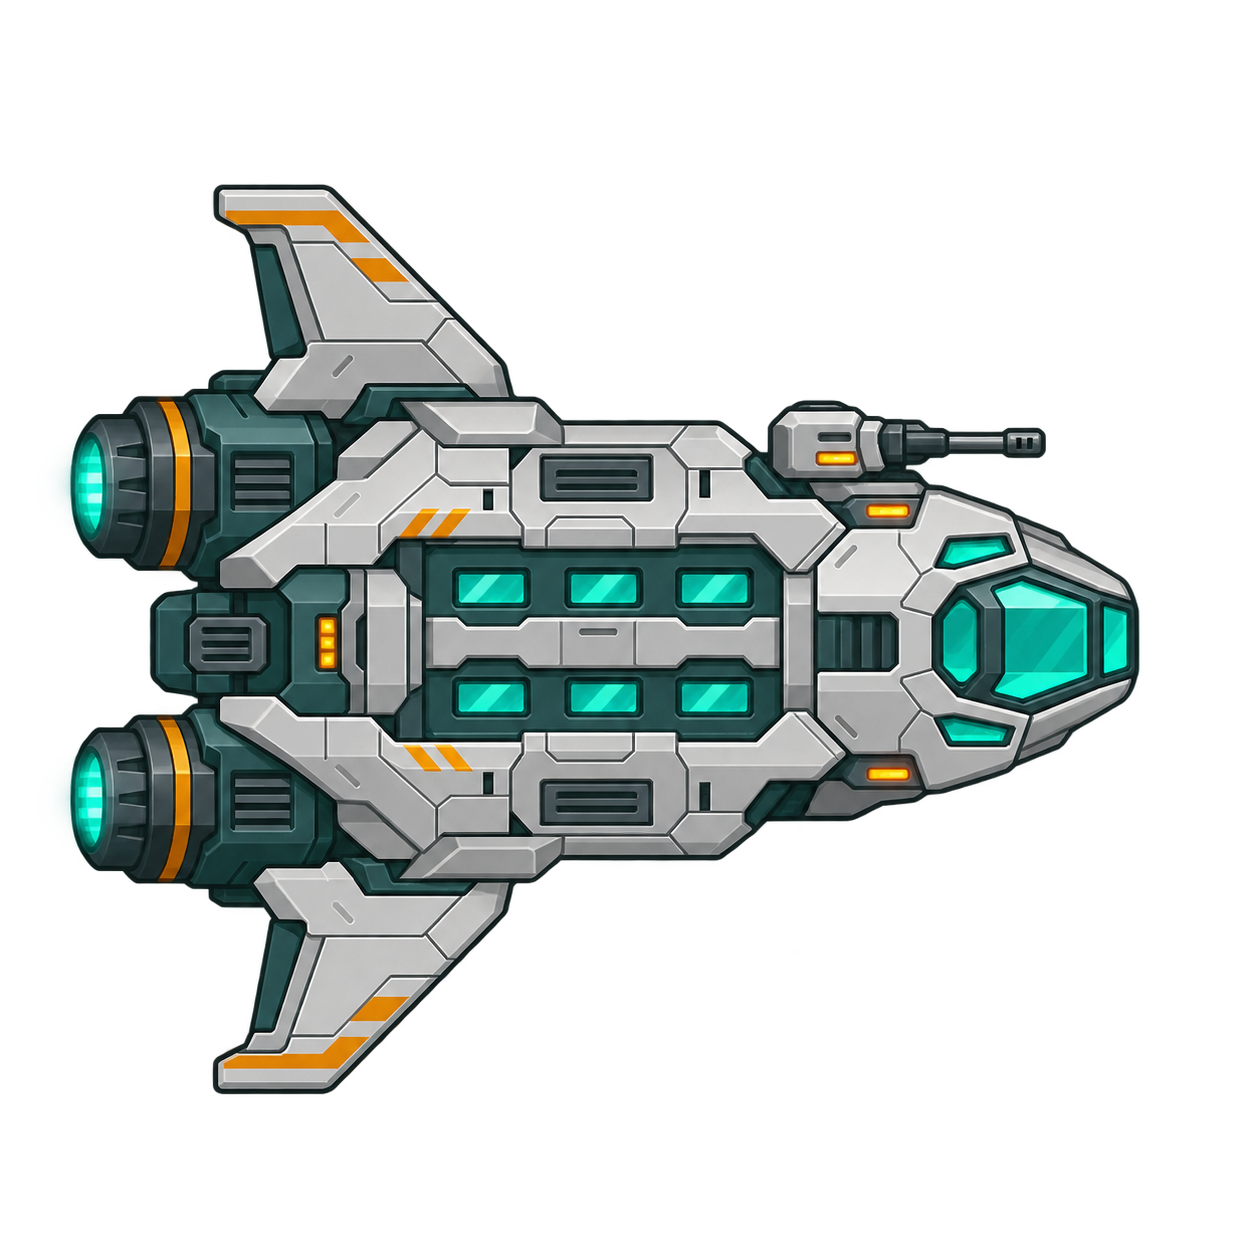
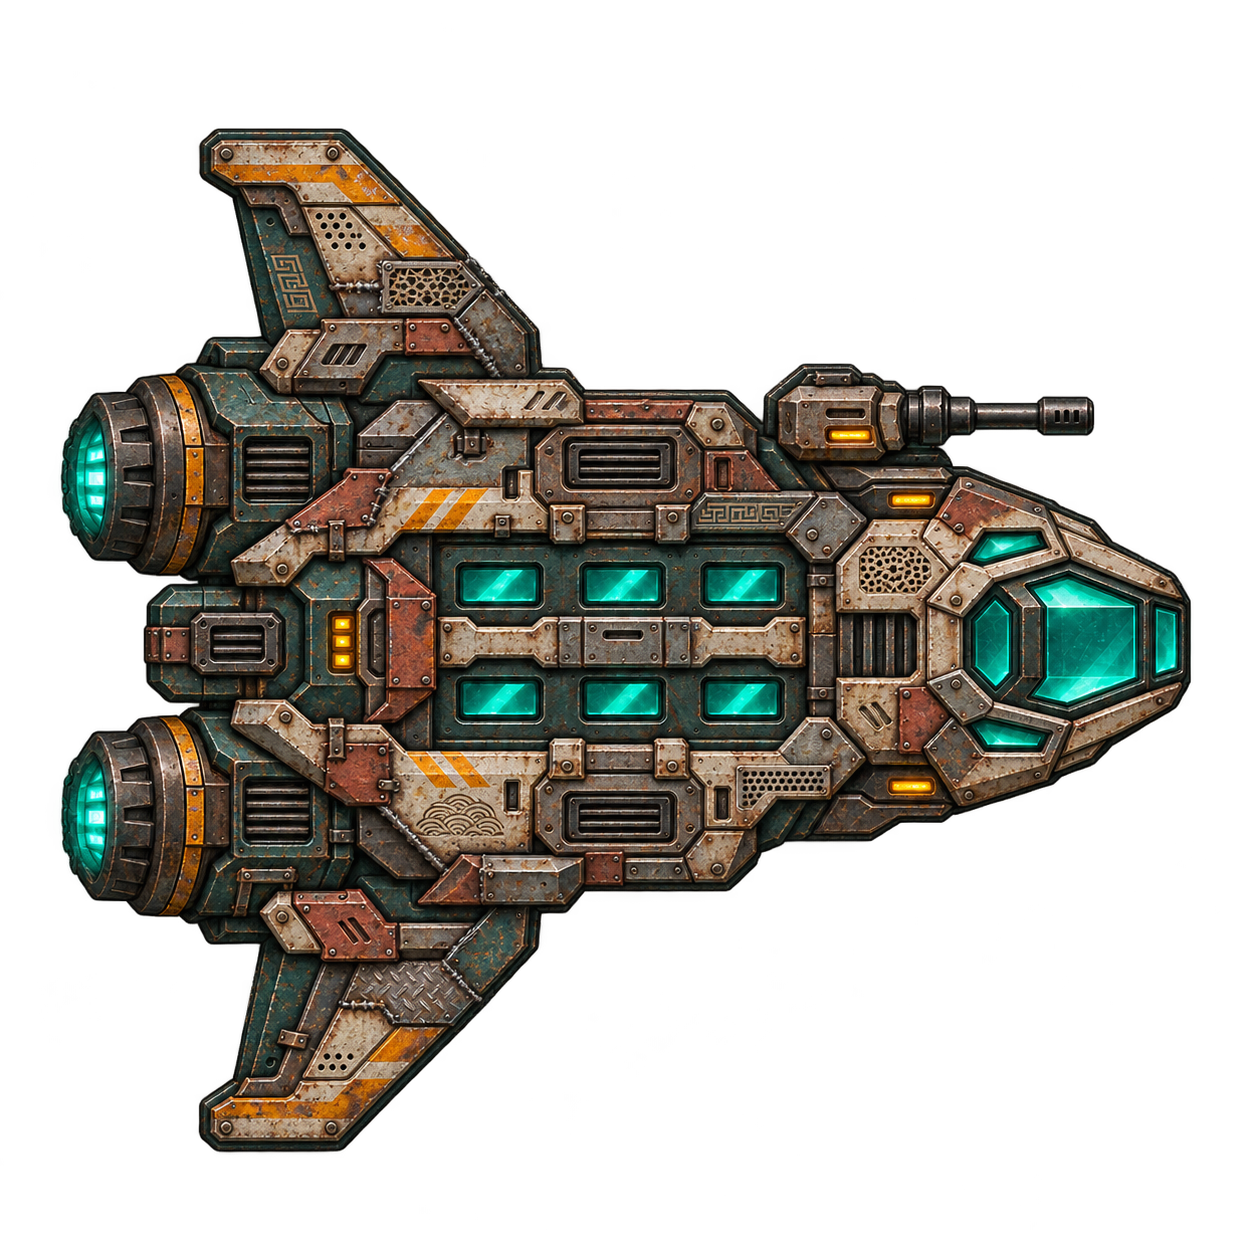
Establish single fleet visual profile and Raptor art

diff --git a/tests/boarding/unit/boarding-ship-picture.test.ts b/tests/boarding/unit/boarding-ship-picture.test.ts
@@ -43,6 +43,28 @@ describe('hogupplost-skeppsbild-i-bordning', () => {
   );
 });
 
+describe('raptor-single-fleet-grafik', () => {
+  it('uses transparent, matching-framed Raptor artwork for map and boarding', () => {
+    const mapUrl = SHIP_SPRITES.Raptor;
+    const boardingUrl = SHIP_BOARDING_IMAGES.Raptor;
+    expect(mapUrl).not.toBe(boardingUrl);
+    const mapSize = webpSize(mapUrl);
+    const boardingSize = webpSize(boardingUrl);
+    expect(boardingSize[0]).toBeGreaterThan(mapSize[0] * 2);
+    expect(boardingSize[0] / boardingSize[1]).toBeCloseTo(
+      mapSize[0] / mapSize[1],
+      3,
+    );
+    for (const url of [mapUrl, boardingUrl]) {
+      const bytes = readFileSync(
+        `${ROOT}${url.replace(/^\/+/, '').split('?')[0]}`,
+      );
+      expect(bytes.toString('ascii', 12, 16)).toBe('VP8X');
+      expect(bytes[20]! & 0x10).toBe(0x10);
+    }
+  });
+});
+
 // Fixture maps, so aligning a ship in the editor breaks no test.
 const ALIGNED =
   '[meta]\nwidth=2\nheight=1\nrules=campaign\nspriteX=-1.5\nspriteY=-0.25\nspriteScale=4\n' +

diff --git a/docs/single-fleet-visual-profile.md b/docs/single-fleet-visual-profile.md
@@ -1,0 +1,58 @@
+# Grafisk profil för Single fleet
+
+## Vision
+
+`single-fleet-grafisk-profil` är **Delvis implementerat** i utforskningen
+`single_fleet`. Spelarens flotta ska kännas använd, bebodd och hopbyggd med
+det som fanns till hands. Rost, slitage, återanvända delar och improviserade
+lagningar ger skeppen personlighet och visar att besättningen håller sitt
+hem vid liv under en lång resa. Riktningen har ännu inte genomförts för alla
+skepp, miljöer och vyer.
+
+## Form, material och kultur
+
+Skeppen har funktionella silhuetter och tydliga roller, med synliga motorer,
+verktyg, skarvar, nitar, kablar, svetsfogar och utbytta pansarplåtar. Former
+och detaljer får vara asymmetriska och delar behöver inte matcha perfekt.
+De ska fortfarande se ut att kunna fungera som rymdskepp.
+
+Formgivningen kan blanda influenser från asiatiska, arabiska och västerländska
+kulturer på jorden. Uttryck dem genom exempelvis geometri, hantverk,
+mönster, material och färg på fasta ytor. Skapa en sammanhållen framtida
+kultur utan att reducera människor eller kulturer till stereotyper.
+
+Färgskalan kan utgå från rostrött, oxiderat stål, sliten ljus färg, mörk
+blågrön och varm bärnsten. Belysningen får skapa värme och visa att skeppen
+är bebodda. Färgerna är vägledning, inte en låst palett.
+
+## Rymden och läsbarhet
+
+Inga flaggor, segel eller andra löst fladdrande textilier på skeppens utsida.
+Material och konstruktioner i rymden ska ha en trovärdig fysisk funktion.
+Grafiken ska vara tydlig även på mobil: viktiga former, skepp och kontroller
+ska gå att urskilja mot bakgrunden. En bakgrund avsedd för gränssnitt ska ha
+lugna partier där text och kontroller kan läggas ovanpå.
+
+## Bilder och vyer
+
+Star map, Fleet, Crew, Research och Production ska kunna kännas igen som
+delar av samma värld. Konceptbilder kan kombinera spelvyer med miljö- och
+skeppsstudier. Konceptens påhittade värden, utrustning och funktioner är
+illustrationer och låser inte ännu öppna spelregler.
+
+`raptor-single-fleet-grafik` är **Fullständigt implementerat**: samma
+Raptor-motiv används i separata transparenta bilder för Star map och
+bordning.
+Bordningsbilden och kartbilden ska visa samma skepp med samma utsnitt och
+proportioner så att bordningskartan kan linjera mot skeppsbilden. Den nya bilden behåller
+originalets utsnitt och silhuett; jämförelse av alfa visar cirka 98,8 %
+överlapp. En separat bakgrund med Raptor och avskalad rymd finns som
+`src/client/space-map/assets/backgrounds/raptor-ui-background.webp`. Den är
+förberedd för UI men är ännu inte inkopplad i en skärm.
+
+Originalen finns i `assets/original/ships/raptor.png` och
+`assets/original/backgrounds/raptor-ui-background.png`. Spelbilderna är
+`src/client/space-map/assets/ships/raptor.webp` (512 × 512) och
+`src/client/space-map/assets/ships/raptor-boarding-hd.webp` (1 254 × 1 254).
+Båda är proportionella versioner av samma transparenta original. Testet
+`raptor-single-fleet-grafik` kontrollerar transparens och bildernas format.

diff --git a/docs/ship-artwork.md b/docs/ship-artwork.md
@@ -61,4 +61,14 @@ och att spelarens Fighter inte får piratens bild.
 
 ## Raptor
 
-`egen-raptor-grafik`: Raptor har en egen skeppssprite. Symbolen för den borttagna Raptor factory används inte längre. Originalen finns i `assets/original/ships/raptor.png` och `assets/original/symbols/raptor-factory-symbol.png`. Genererade med inbyggd bildgenerering: ett litet trupptransportskepp ovanifrån med nosen åt höger, ljusgrått pansar, blågröna detaljer och en lätt kanon; samt en förenklad trupptransport med kugghjul i samma färger på transparent bakgrund.
+`egen-raptor-grafik` och `raptor-single-fleet-grafik` är **Fullständigt
+implementerat**. Raptor har i utforskningen en sliten och lagad bild i den
+nya [grafiska profilen](single-fleet-visual-profile.md). Det ersätter den
+äldre ljusgrå och blågröna ytbehandlingen; skeppets utsnitt och riktning
+behålls för att bordningskartan ska fortsätta passa.
+
+Ett transparent original `assets/original/ships/raptor.png` används till
+`raptor.webp` för Star map och `raptor-boarding-hd.webp` för bordning.
+En separat bakgrund för framtida UI finns i
+`src/client/space-map/assets/backgrounds/raptor-ui-background.webp` men är
+inte kopplad till en vy. Se profilen för format och detaljer.

diff --git a/requirements.md b/requirements.md
@@ -13,11 +13,19 @@ kraven finns i [Single fleet](docs/single-fleet.md). De nya speländringarna
 områdesfilerna beskriver det som finns kvar. [Den tidigare visionen](docs/game-vision.md)
 behålls som bakgrund.
 
+Den visuella riktningen för utforskningen finns i
+[Grafisk profil för Single fleet](docs/single-fleet-visual-profile.md).
+
 ## Kravkategorier
 
 Varje område har en egen fil med en beskrivning av hur spelet fungerar nu och
 kraven med stabila namn och status. Statusen nedan sammanfattar området.
 
+- **[Grafisk profil — utforskning](docs/single-fleet-visual-profile.md):**
+  `single-fleet-grafisk-profil` är **Delvis implementerat**; den nya stilen
+  återstår för merparten av spelgrafiken. `raptor-single-fleet-grafik` är
+  **Fullständigt implementerat** för Star map och bordning; den separata
+  UI-bakgrunden är förberedd men inte inkopplad i någon vy.
 - **[Single fleet — utforskning](docs/single-fleet.md):** en enda flotta,
   AP på Star map, Fleet, Crew, teknikforskning och en gemensam
   produktionskö, ändliga förbrukningsresurser och personer med flera roller

diff --git a/docs/technical-requirements.md b/docs/technical-requirements.md
@@ -1,5 +1,15 @@
 # Tekniska krav och arbetsregler
 
+## Raptor-grafik i Single fleet
+
+`raptor-single-fleet-grafik`: Star map och bordning använder separata
+transparenta WebP-filer i 512 × 512 respektive 1 254 × 1 254 pixlar.
+Båda framställs proportionellt från samma original och behåller det tidigare
+utsnittet som bordningskartans placering bygger på. Testet med kravnamnet
+kontrollerar bildkoppling, transparens, proportioner och högre upplösning.
+Den separata UI-bakgrunden är en bildresurs och är ännu inte kopplad till
+en vy.
+
 ## Beslut före implementation av Single fleet
 
 `single-fleet-beslut-fore-implementation` är **Fullständigt implementerat**

diff --git a/docs/single-fleet.md b/docs/single-fleet.md
@@ -8,6 +8,8 @@ asteroidbälten och andra platser leder till fynd, rymdstrider och bordningar.
 Forskning och utveckling ska främst handla om skeppen och bordningsspelet.
 Rensningen inför riktningen följs upp i [rensningsplanen](single-fleet-cleanup.md).
 
+Den visuella riktningen beskrivs i [grafisk profil](single-fleet-visual-profile.md).
+
 ## Krav — utforskning
 
 Alla krav nedan är **Ej implementerat**. Befintliga skärmar och mekaniker är
